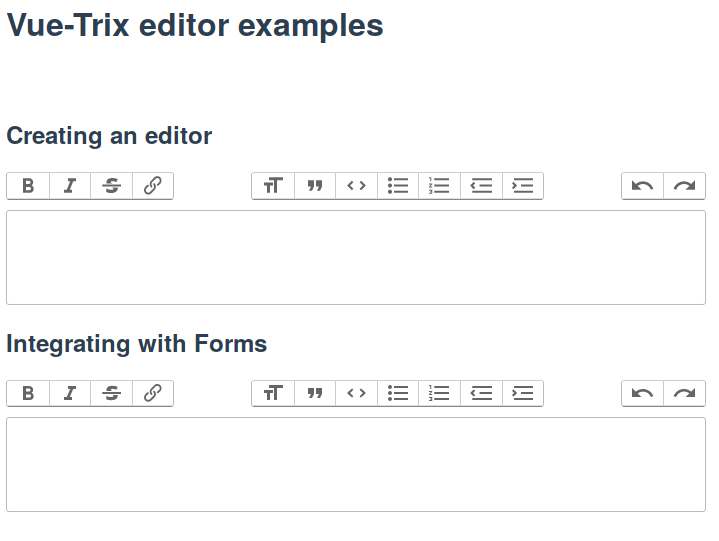
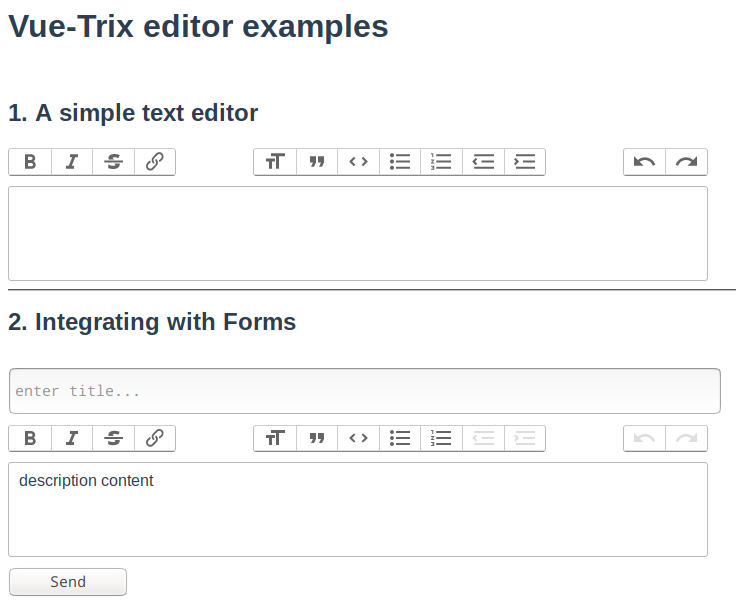
Update Sample page

diff --git a/example/src/components/Editor.vue b/example/src/components/Editor.vue
@@ -1,14 +1,16 @@
 <template>
   <div class="container">
     <div class="editor-wrapper">
-      <h2>1. Creating a simple editor</h2>
+      <h2>1. A simple text editor</h2>
       <VueTrix v-model="content1"/>
     </div>
     <hr>
     <div class="form-wrapper">
       <h2>2. Integrating with Forms</h2>
       <form>
+        <input type="text" name="title" id="title" placeholder="enter title...">
         <VueTrix inputId="textarea2" v-model="content2"/>
+        <button>Send</button>
       </form>
     </div>
   </div>
@@ -22,7 +24,7 @@ export default {
   data () {
     return {
       content1: '',
-      content2: 'content #2'
+      content2: 'description content'
     }
   },
   components: {
@@ -35,9 +37,24 @@ export default {
 <style scoped lang="scss">
 .container {
   width: 100%;
-  padding: 30px 0;
+  padding: 15px 0;
 }
 .editor-wrapper, .form-wrapper {
   max-width: 700px;
+}
+
+
+input, button {
+  margin: 10px 0;
+  font-size: 15px;
+}
+
+input[type=text] {
+  width: 100%;
+  padding: 10px 0;
+}
+
+button {
+  min-width: 120px;
 }
 </style>
